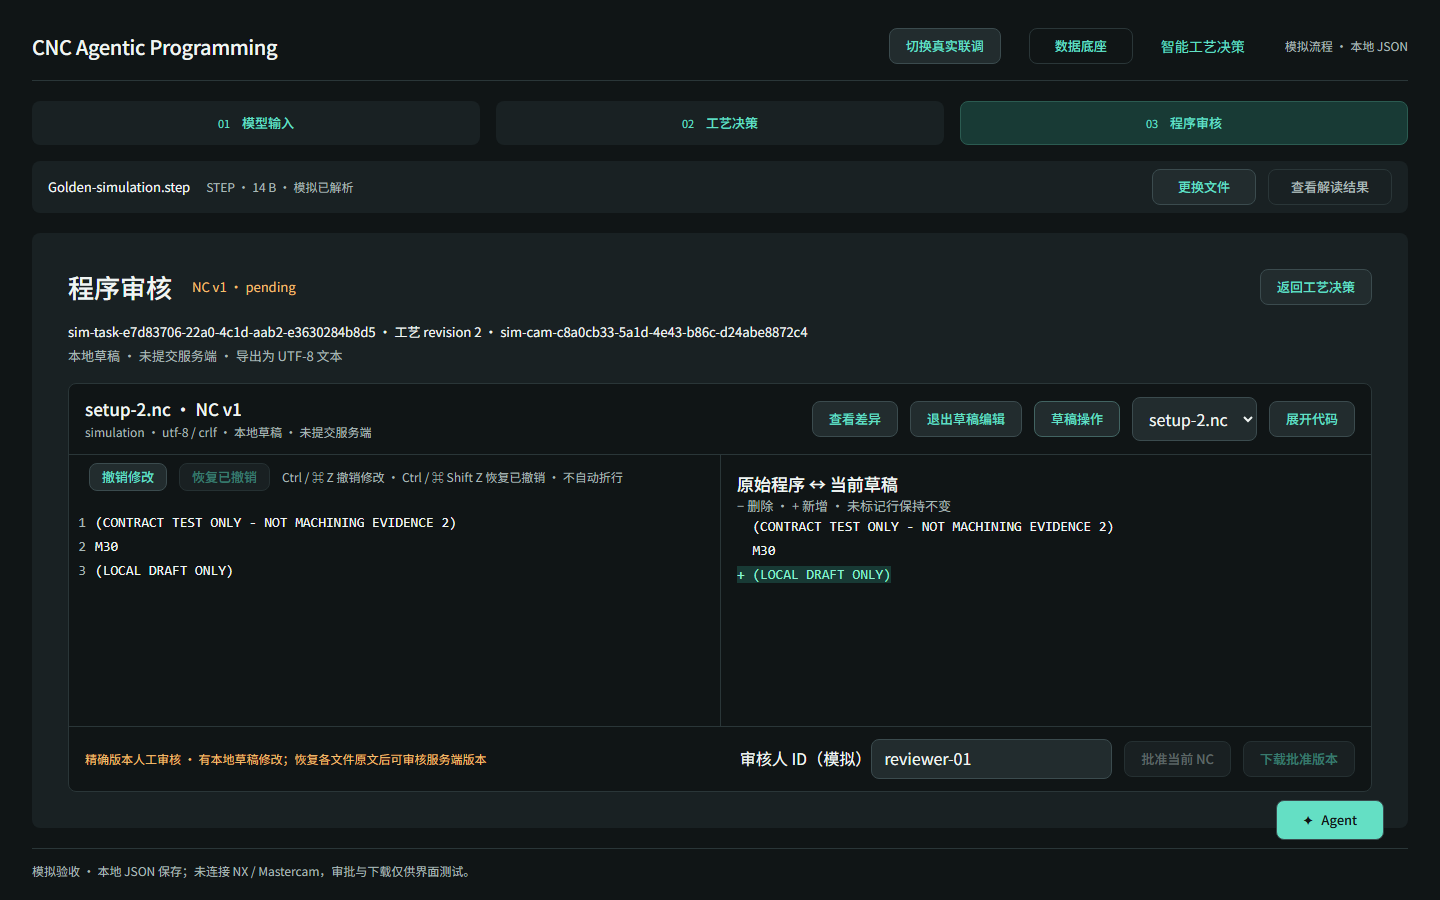
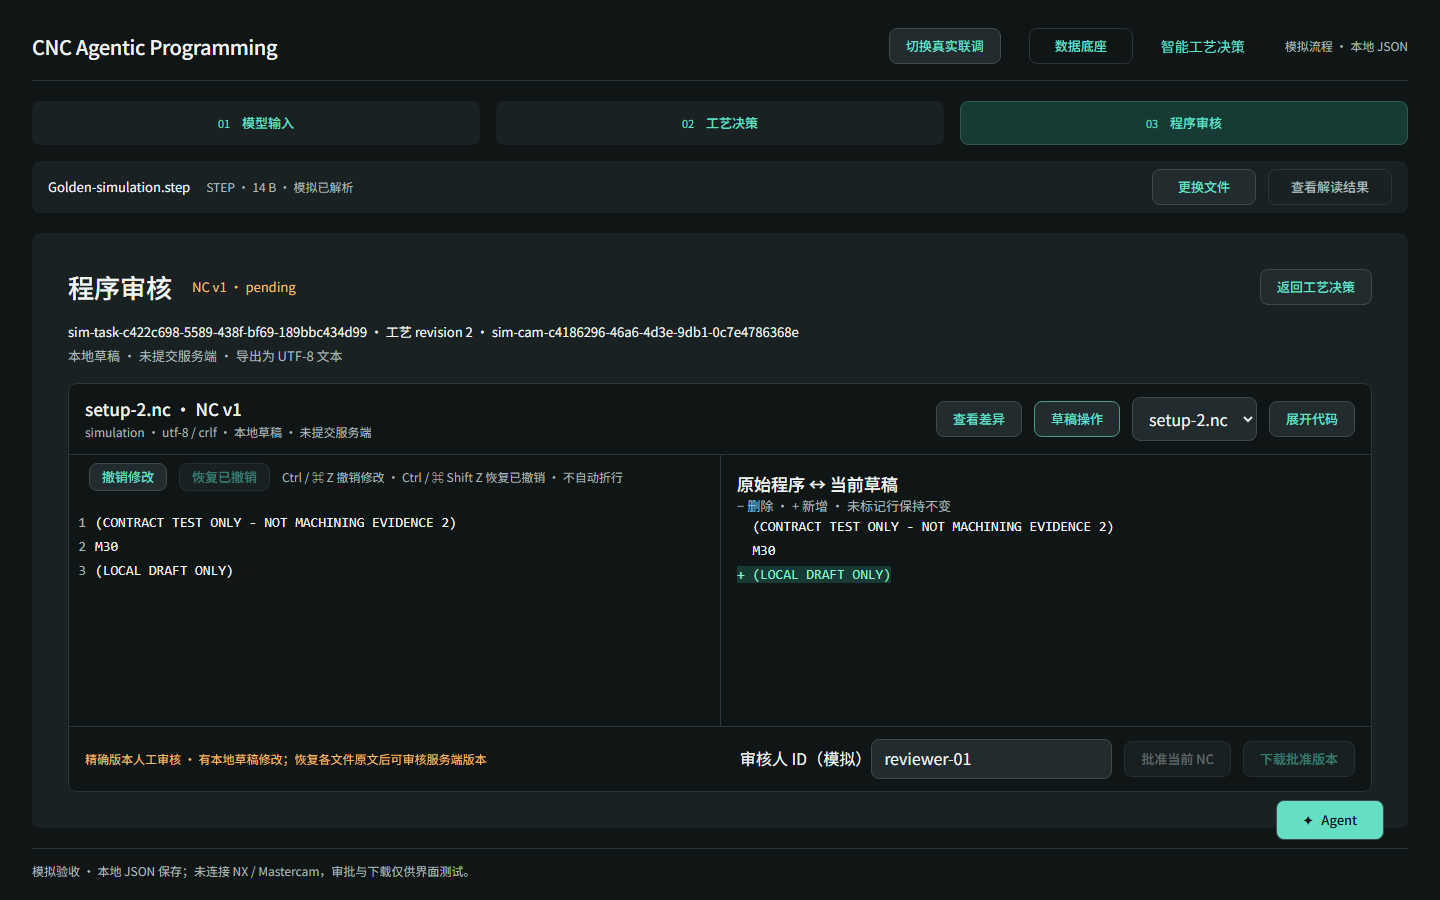
fix: allow direct editing of NC review drafts

Changed region(s): [[0.0938, 0.3422, 0.5625, 0.3733], [0.5625, 0.4356, 0.6875, 0.4978]]

diff --git a/src/pages/program-review/ProgramReviewPage.tsx b/src/pages/program-review/ProgramReviewPage.tsx
@@ -103,11 +103,11 @@ function LiveProgramReview({
           {live.cam?.cam_run_id ?? 'CAM 尚未启动'}
         </p>
         <p className="muted-text">
-          {draft.editing || draft.changed
+          {draft.changed
             ? '本地草稿 · 未提交服务端 · 导出为 UTF-8 文本'
             : live.simulation
               ? '模拟 NC 正文 · 仅供界面验收 · 不可用于加工'
-              : 'Core 原始正文 · 当前版本人工审核 · 只读服务器版本'}
+              : '服务端原始正文 · 可直接编辑本地草稿'}
         </p>
       </div>
       {nc && file ? (
@@ -131,13 +131,6 @@ function LiveProgramReview({
                 onClick={() => setDiffOpen(!diffOpen)}
               >
                 查看差异
-              </button>
-              <button
-                className="button"
-                aria-pressed={draft.editing}
-                onClick={() => draft.setEditing(!draft.editing)}
-              >
-                {draft.editing ? '退出草稿编辑' : '编辑本地草稿'}
               </button>
               <details
                 className="nc-draft-menu"
@@ -223,7 +216,6 @@ function LiveProgramReview({
           </div>
           <div className={`program-content${diffOpen ? ' with-diff' : ''}`}>
             <ProgramEditor
-              readOnly={!draft.editing}
               document={{
                 id: `${identity}/${file.file_id}`,
                 revision: draft.revision,

diff --git a/e2e/simulation.spec.ts b/e2e/simulation.spec.ts
@@ -50,7 +50,8 @@ test('本地 JSON 复用完整页面：审核人、参数修订、CAM、NC、下
   await screenshot(page, info, 'nc-reviewer')
   await page.getByRole('button', { name: '查看差异', exact: true }).click()
   await expect(page.getByText('当前草稿与原始程序一致。')).toBeVisible()
-  await page.getByRole('button', { name: '编辑本地草稿' }).click()
+  await expect(page.getByRole('button', { name: '编辑本地草稿' })).toHaveCount(0)
+  await expect(page.locator('.cm-content')).toHaveAttribute('contenteditable', 'true')
   await page.locator('.cm-content').click()
   await page.keyboard.press('Control+End')
   await page.keyboard.insertText('\n(LOCAL DRAFT ONLY)')
@@ -81,7 +82,6 @@ test('本地 JSON 复用完整页面：审核人、参数修订、CAM、NC、下
   expect((await localDownload).suggestedFilename()).toContain('unapproved-draft.txt')
   await page.getByText('草稿操作', { exact: true }).click()
   await page.getByRole('button', { name: '恢复原文', exact: true }).click()
-  await page.getByRole('button', { name: '退出草稿编辑' }).click()
   await page.getByRole('button', { name: '展开代码', exact: true }).click()
   await page.getByRole('button', { name: 'Agent 协同', exact: true }).click()
   await expect(page.getByRole('dialog', { name: 'Agent 协同' })).toBeVisible()

diff --git a/src/features/program-review/useNcDraft.ts b/src/features/program-review/useNcDraft.ts
@@ -28,7 +28,6 @@ export function useNcDraft(key: string, original: string, scope: string) {
     }
     return { text: original, saved: original, revision: 1, history: [] as Change[] }
   })
-  const [editing, setEditing] = useState(draft.text !== original)
   function update(text: string, saved = draft.saved, reason = '编辑本地草稿') {
     const revision = draft.revision + 1
     const next = {
@@ -72,8 +71,6 @@ export function useNcDraft(key: string, original: string, scope: string) {
   }
   return {
     ...draft,
-    editing,
-    setEditing,
     error,
     changed: draft.text !== original,
     groupChanged,

diff --git a/docs/api/PR30-Interaction-Parity-Audit.md b/docs/api/PR30-Interaction-Parity-Audit.md
@@ -14,7 +14,7 @@
 - **数值输入**：加工参数直接输入小数。保留受控允许值校验；当前 Golden rough_step 仍只允许 0.4、0.5 mm。非法输入不会提交现场信息或参数补丁。纠正输入后清理过时的校验提示。
 - **来源展示**：上游参数的摘要、资源身份和 JSON 路径折叠到“来源详情”，原始数据仍可查看。模拟数据不再显示“Core 实际结果”。
 - **代码差异**：恢复“查看差异”，复用原有逐行增删对比。原始 NC 与本地草稿对照，不伪造服务端历史版本。统一内部换行避免 CRLF 导致整篇假差异，导出保留源文件换行类型。
-- **本地草稿**：恢复编辑、撤销/重做、恢复原文、恢复暂存、保存和导出。辅助操作收进“草稿操作”，保持底部审批区域紧凑。导出明确命名 `.unapproved-draft.txt`，使用 UTF-8，不等同于已审批 NC 包。
+- **本地草稿**：打开正文即可直接编辑，无需切换编辑模式；保留撤销/重做、恢复原文、恢复暂存、保存和导出。辅助操作收进“草稿操作”，保持底部审批区域紧凑。导出明确命名 `.unapproved-draft.txt`，使用 UTF-8，不等同于已审批 NC 包。
 - **修订记录**：本地修订号及最近 20 次操作记录放在草稿菜单内，记录编辑、暂存和恢复操作；与服务端审批记录区分。
 - **状态隔离**：草稿按模拟/真实、任务、NC 身份、文件身份和摘要保存到本地 JSON。支持切换文件与重新进入后恢复。任一文件有本地修改，整版服务端 NC 的批准/下载入口暂时禁用，恢复各文件原文后重新开放。
 - **展开与 Agent**：保留展开代码、Esc 返回及按钮焦点恢复；恢复展开视图里的 Agent 入口。Live 与完整模拟恢复完整上下文抽屉，可查看任务、NC、当前工序并切换工序；真实消息服务未接入，因此发送按钮明确禁用。旧原型的预设消息演示仍保留。
